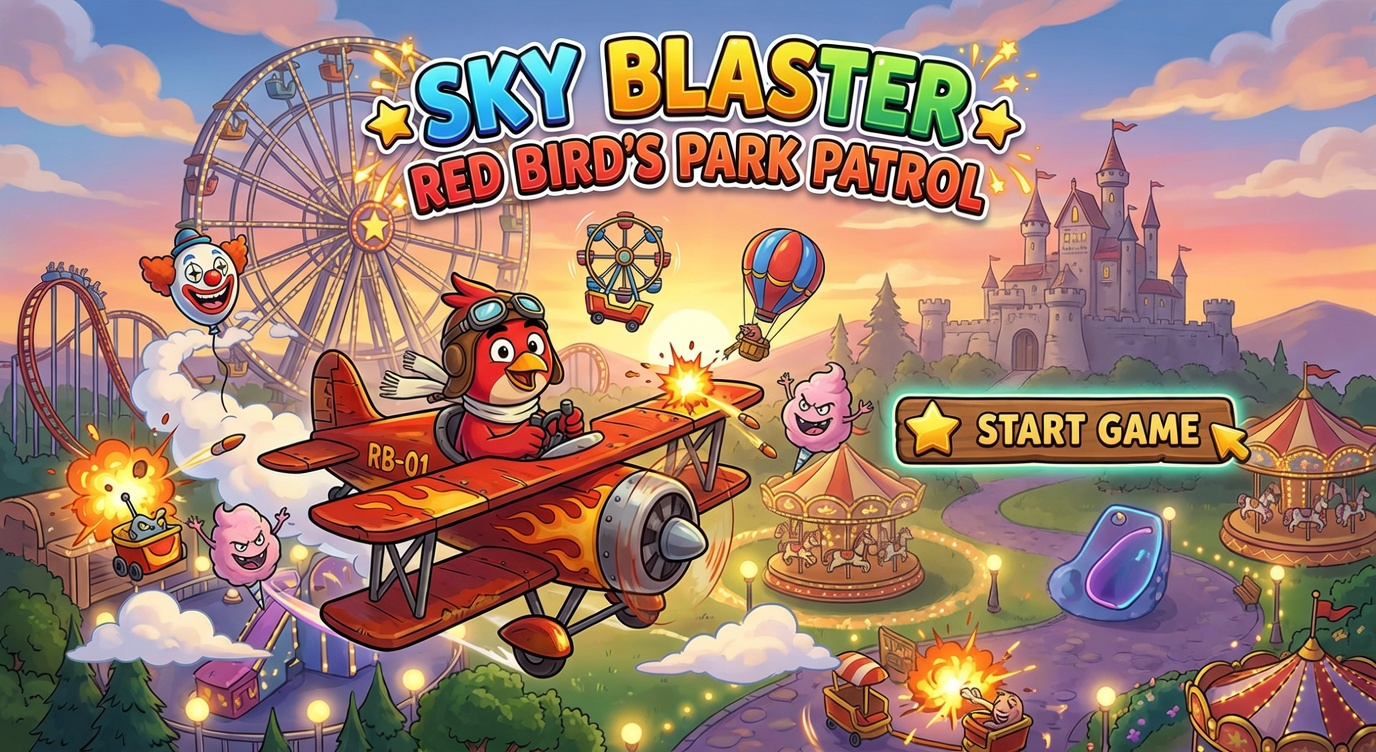
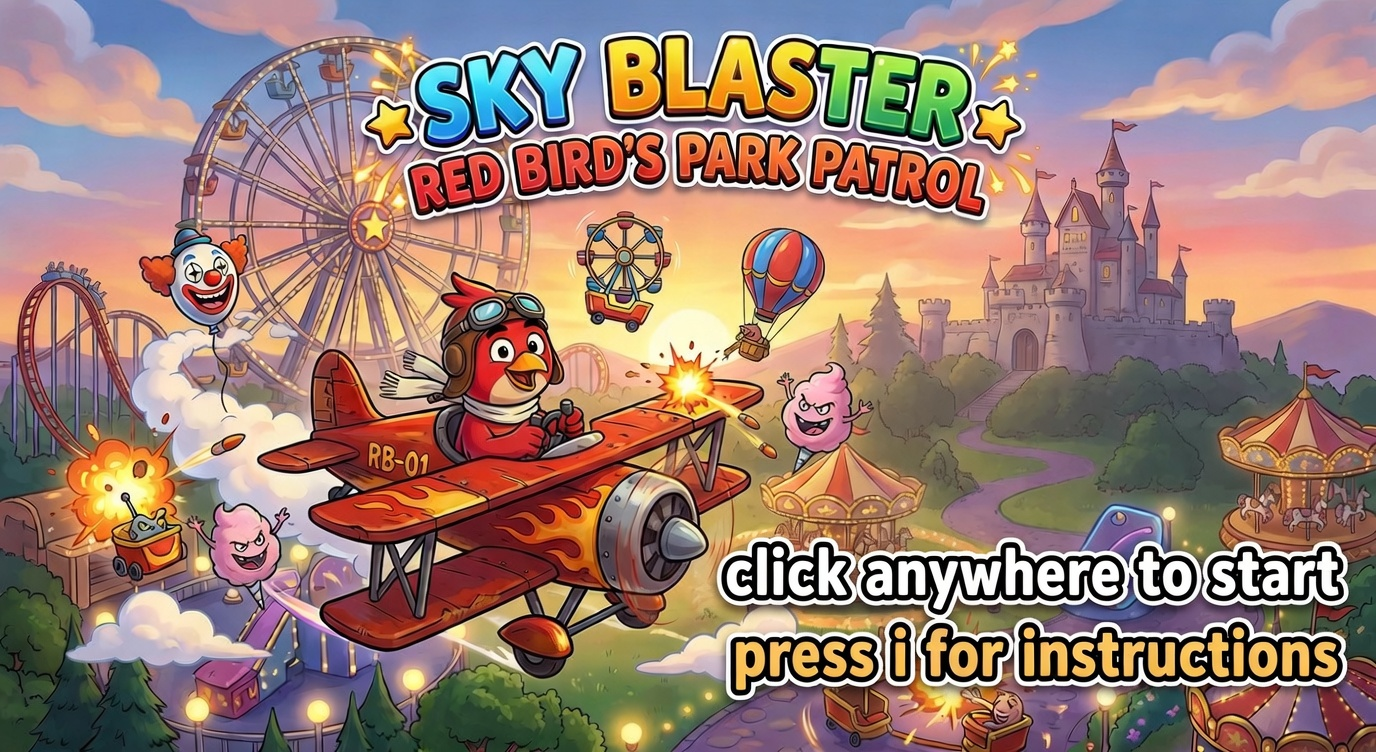
added instructions tab, mode switch indicator, and birdship bounds limitations

diff --git a/sketch.js b/sketch.js
@@ -63,8 +63,8 @@ let gameWon = false;
 let victorySoundPlayed = false;
 let defeatSoundPlayed = false;
 let bossDefeatSoundPlayed = false;
-let startMusic = false;
 let spawnBird = false;
+let informationTabOpen = false;
 
 //creaing arrays for normal enemies
 let clownEnemies = [];
@@ -84,8 +84,10 @@ let clownFireRate;
 let crazyClownFireRate;
 let robotFireRate;
 
-// sets game mode
+// controls the game mode
 let gameMode = "easy";
+let modeText = "";
+let modeTextFade = 0;
 
 function preload(){
   //loading images
@@ -142,11 +144,13 @@ function draw() {
   modeSettings();
   createMainMenu();
   createBackground();
+  openInstructions();
   playMusic();
   createCharacters();
   createHearts();
   displayScore();
   endGame();
+  displayModeText();
 }
 
 function createMainMenu(){
@@ -330,6 +334,28 @@ function displayBossHealth(){
   }
 }
 
+function showModeText(text){
+  //sets text content and text opacity
+  modeText = text;
+  modeTextFade = 255;
+}
+
+function displayModeText(){
+  //slowly fade text
+  modeTextFade--;
+
+  //draw text displaying current mode
+  if (modeTextFade > 0){
+    push();
+    fill(255, modeTextFade);
+    textAlign(CENTER, CENTER);
+    textSize(40);
+    text(modeText, windowWidth/2, windowHeight/2);
+    pop();
+  }
+
+}
+
 function modeSettings(){
   //settings for easy mode
   if (gameMode === "easy"){
@@ -370,6 +396,23 @@ function modeSettings(){
   }
 }
 
+function openInstructions(){
+  //creates the instructions tab
+  if (informationTabOpen){
+    push();
+    fill(0, 0, 0, 180);
+    rect(windowWidth/4, windowHeight/4, windowWidth/2, windowHeight/2);
+
+    fill(255);
+    textAlign(CENTER);
+    textSize(24);
+
+    //instructions
+    text("Move your character with you mouse. Left click or use space to shoot. Defeat enemies to gain points. After a certain amount of points, there will be a boss fight. Press m in the main menu to toggle difficulty level. Press b at anytime to toggle the background. Press i to exit out of the instructions.", windowWidth/4, windowHeight/4, windowWidth/2, windowHeight/2);
+    pop();
+  }
+}
+
 function keyPressed(){
   //switch between backgrounds if the 'b' key is pressed
   if (key === "b"){
@@ -395,12 +438,28 @@ function keyPressed(){
       
       if (gameMode === "easy"){
         gameMode = "hard";
+        showModeText("Hard Mode Activated");
         return;
       }
       
       if (gameMode === "hard"){
         gameMode = "easy";
+        showModeText("Easy Mode Activated");
         return;
+      }
+    }
+  }
+
+  //use i to get instructions for the game
+  if (key === "i"){
+    if (!gameStart && gameEnded){
+      
+      if (!informationTabOpen){
+        informationTabOpen = true;
+      }
+      
+      else if (informationTabOpen){
+        informationTabOpen = false;
       }
     }
   }
@@ -410,19 +469,10 @@ function mouseClicked(){
   //start audio
   userStartAudio();
 
-  //if the game has not yet begun
+  //starts the game
   if (!gameStart && gameEnded){
-    
-    //if the game has been loaded up for the first time, the first click starts the main menu music
-    if(!startMusic){
-      startMusic = true;
-      return;
-    }
-    //if this is not the first click after the game has been loaded up, it starts the game
-    else{
-      gameStart = true;
-      gameEnded = false;
-    }
+    gameStart = true;
+    gameEnded = false;
   }
 
   //if the game has been started
@@ -430,6 +480,7 @@ function mouseClicked(){
     //the first click spawns the bird
     if (!spawnBird){
       spawnBird = true;
+      informationTabOpen = false;
       return;
     }
     //all other clicks after the bird has been spawned makes the bird fire and plays the sound effect
@@ -683,6 +734,26 @@ class FriendlyCharacter extends Character{
     //have the friendly character follow the mouse
     this.x = mouseX;
     this.y = mouseY;
+
+    //prevents bird from going off screen on the left
+    if (this.x < 0){
+      this.x = 0;
+    }
+
+    //prevents the bird from going past the middle of the screen
+    if (this.x + this.image.width/2 * characterScale > windowWidth/2){
+      this.x = windowWidth/2 - this.image.width/2 * characterScale;
+    }
+
+    //prevents the bird from going off screen on the top
+    if (this.y < 0){
+      this.y = 0;
+    }
+
+    //prevents the bird from going off screen on the bottom
+    if (this.y + this.image.height/2 * characterScale > windowHeight){
+      this.y = windowHeight - this.image.height/2 * characterScale;
+    }
 
     //tick down invulerability timer
     if (this.invulerabilityTimer > 0){
